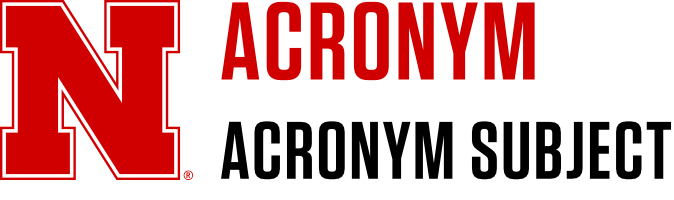
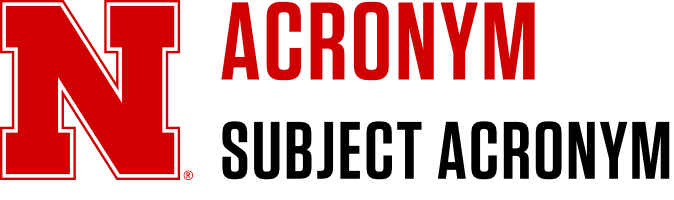
Subject Acronym change and normalizing Ns

Changed region(s): [[0.3116, 0.6, 0.997, 0.9]]

diff --git a/public/css/main.css b/public/css/main.css
@@ -1,1 +1,1 @@
-label>input{visibility:hidden;position:absolute}label img{padding:5px}label>input+img,label>input+img+img{cursor:pointer;box-shadow:0 0 8px #DDD}label>input:checked+img,label>input:checked+img+img{box-shadow:0 0 8px #1B9AE8}form legend{font-size:1.5em}textarea{resize:vertical}.page-title{margin-top:0}div.left,section.left{text-align:left}div.center,section.center{text-align:center}div.right,section.right{text-align:right}.approval-bug{text-align:center;background:#1b9ae8;border:1px solid #137cbd;border-radius:1em;padding:1em;color:#fefdfa;font-family:"Gotham SSm A","Gotham SSm B",Verdana,"Verdana Ref",Geneva,Tahoma,"Lucida Grande","Lucida Sans Unicode","Lucida Sans","DejaVu Sans","Bitstream Vera Sans","Liberation Sans",sans-serif;font-weight:400;font-style:normal}.approval-bug.approved{background:#00bc3c;border:1px solid #00892c}.approval-bug.denied{background:#ff5151;border:1px solid #d00000}.wdn_notice{margin-top:1em}.caps{text-transform:uppercase;color:inherit}.featured-icon{background-color:#00BD3C;height:144px;width:144px;border-radius:80px;float:none!important;margin:0 auto!important}.featured-icon.red{background-color:#D00000}.featured-icon.blue{background-color:#1B9AE8}svg.preview{border:2px dashed #DDD;max-width:100%;max-height:100%}.wdn-hero{position:relative;overflow:hidden;height:25.24em;height:42vh;background-color:#000;display:-webkit-flex;display:-ms-flexbox;display:flex;-webkit-align-items:center;-ms-flex-align:center;align-items:center}.wdn-hero video{width:100%}.wdn-hero-text{position:relative;bottom:auto;display:-webkit-flex;display:-ms-flexbox;display:flex;-webkit-flex-direction:column;-ms-flex-direction:column;flex-direction:column;width:100%;text-align:center}.wdn-hero-heading{z-index:1;margin:0;font-size:3.923rem;text-transform:uppercase;color:#fff}.wdn-hero-heading .hero-line{display:inline-block;line-height:1;border-top:1px solid rgba(255,255,255,.2);border-bottom:1px solid rgba(255,255,255,.2)}.is-video.wdn-hero .wdn-hero-video{position:absolute;top:0;left:0}.tooltip{background-color:#1B9AE8;border-radius:2em;height:1.5em;width:1.5em;padding:0 .2em;color:#fff;display:inline-block;text-align:center;font-size:.85em;line-height:1.6em;position:relative;font-size:.8125rem}.tooltip>div{position:absolute;display:none;background-color:#fff;color:#000;box-shadow:0 1px 4px rgba(0,0,0,.2);padding:.75em;bottom:160%;left:-91px;width:200px;text-align:left;z-index:250}.tooltip>div:before{background-color:#fff;content:"";display:block;width:15px;height:15px;position:absolute;bottom:-8px;left:50%;margin-left:-7px;transform:rotate(45deg);-ms-transform:rotate(45deg);-o-transform:rotate(45deg);-moz-transform:rotate(45deg);-webkit-transform:rotate(45deg);box-shadow:0 0 4px rgba(0,0,0,.25)}.tooltip>div:after{content:"";height:12px;width:40px;background-color:#fff;display:block;position:absolute;bottom:0;left:50%;margin-left:-24px}.tooltip.hang-right>div{left:-27px}.tooltip.hang-left>div{left:-157px}.tooltip.hang-right>div:before{left:34px;margin-left:-7px}.tooltip.hang-right>div:after{left:34px;margin-left:-24px}.tooltip.hang-left>div:before{left:166px;margin-left:-7px}.tooltip.hang-left>div:after{left:166px;margin-left:-24px}.tooltip ul li{margin-bottom:.75em}.tooltip span.heading{font-family:"Tungsten A","Tungsten B",HelveticaNeueCondensed,HelveticaNeue-Condensed,"Helvetica Neue Condensed",HelveticaNeueRomanCondensed,HelveticaNeue-Roman-Condensed,"Helvetica Neue Roman Condensed","Arial Narrow",HelveticaNeue,"Helvetica Neue",HelveticaNeueRoman,HelveticaNeue-Roman,"Helvetica Neue Roman",Helvetica,Tahoma,Geneva,Arial,sans-serif;font-size:1.777em}.tooltip:hover>div{display:block}.tooltip p{margin:0}.tooltip.italic *{font-style:italic}.toolbox,.visual-island{background:#f9f8f5;margin-bottom:1em;word-wrap:break-word;padding:0!important}.toolbox .details,.toolbox .tools,.visual-island .details,.visual-island .tools{padding:1em;border-left:1px solid #d5d5d2;border-right:1px solid #d5d5d2;border-bottom:1px solid #d5d5d2}.toolbox .details.top-border,.toolbox .tools.top-border,.visual-island .details.top-border,.visual-island .tools.top-border{border-top:1px solid #d5d5d2}.toolbox .vi-header,.toolbox h1,.toolbox h2,.toolbox h3,.toolbox h4,.toolbox h5,.toolbox h6,.visual-island .vi-header,.visual-island h1,.visual-island h2,.visual-island h3,.visual-island h4,.visual-island h5,.visual-island h6{display:block;font-size:.802em!important;margin:0;border-bottom:1px solid #474746;font-family:"Gotham SSm A","Gotham SSm B",Verdana,"Verdana Ref",Geneva,Tahoma,"Lucida Grande","Lucida Sans Unicode","Lucida Sans","DejaVu Sans","Bitstream Vera Sans","Liberation Sans",sans-serif;width:100%;background-color:#474746;padding:1em;text-transform:uppercase;color:#fff;font-weight:400;font-style:normal;text-align:center}.toolbox p,.visual-island p{padding:0 1em 1em 1em}.toolbox ul,.visual-island ul{padding:0;padding-left:1em;margin:0}.toolbox ul a,.visual-island ul a{border-bottom:none;font-family:"Gotham SSm A","Gotham SSm B",Verdana,"Verdana Ref",Geneva,Tahoma,"Lucida Grande","Lucida Sans Unicode","Lucida Sans","DejaVu Sans","Bitstream Vera Sans","Liberation Sans",sans-serif}@media (min-width:0px){.wdn-hero{height:5em;height:10vh;max-height:8em}}@media (min-height:480px) and (min-width:480px){.wdn-hero{height:15em;height:30vh;max-height:22em}}@media (min-height:718px) and (min-width:960px){.wdn-hero{height:25.24em;height:56vh;max-height:31.474em}}@media (min-height:895px) and (min-width:1044px){.wdn-hero{height:31.474em;height:75vh;max-height:33.645em}}@media (min-width:480px){.wdn-hero-heading{font-size:4.1538rem}}@media (min-width:768px){.wdn-hero-heading{font-size:5.61rem}}@media (min-width:1044px){.wdn-hero-heading{font-size:5.997rem}}
+label>input{visibility:hidden;position:absolute}label img{padding:5px}label>input+img,label>input+img+img{cursor:pointer;box-shadow:0 0 8px #DDD}label>input:checked+img,label>input:checked+img+img{box-shadow:0 0 8px #1B9AE8}form legend{font-size:1.5em}textarea{resize:vertical}.page-title{margin-top:0}div.left,section.left{text-align:left}div.center,section.center{text-align:center}div.right,section.right{text-align:right}img.height-36{max-height:108px}img.height-38{max-height:114px}img.height-40{max-height:120px}.approval-bug{text-align:center;background:#1b9ae8;border:1px solid #137cbd;border-radius:1em;padding:1em;color:#fefdfa;font-family:"Gotham SSm A","Gotham SSm B",Verdana,"Verdana Ref",Geneva,Tahoma,"Lucida Grande","Lucida Sans Unicode","Lucida Sans","DejaVu Sans","Bitstream Vera Sans","Liberation Sans",sans-serif;font-weight:400;font-style:normal}.approval-bug.approved{background:#00bc3c;border:1px solid #00892c}.approval-bug.denied{background:#ff5151;border:1px solid #d00000}.wdn_notice{margin-top:1em}.caps{text-transform:uppercase;color:inherit}.featured-icon{background-color:#00BD3C;height:144px;width:144px;border-radius:80px;float:none!important;margin:0 auto!important}.featured-icon.red{background-color:#D00000}.featured-icon.blue{background-color:#1B9AE8}svg.preview{border:2px dashed #DDD;max-width:100%;max-height:100%}.wdn-hero{position:relative;overflow:hidden;height:25.24em;height:42vh;background-color:#000;display:-webkit-flex;display:-ms-flexbox;display:flex;-webkit-align-items:center;-ms-flex-align:center;align-items:center}.wdn-hero video{width:100%}.wdn-hero-text{position:relative;bottom:auto;display:-webkit-flex;display:-ms-flexbox;display:flex;-webkit-flex-direction:column;-ms-flex-direction:column;flex-direction:column;width:100%;text-align:center}.wdn-hero-heading{z-index:1;margin:0;font-size:3.923rem;text-transform:uppercase;color:#fff}.wdn-hero-heading .hero-line{display:inline-block;line-height:1;border-top:1px solid rgba(255,255,255,.2);border-bottom:1px solid rgba(255,255,255,.2)}.is-video.wdn-hero .wdn-hero-video{position:absolute;top:0;left:0}.tooltip{background-color:#1B9AE8;border-radius:2em;height:1.5em;width:1.5em;padding:0 .2em;color:#fff;display:inline-block;text-align:center;font-size:.85em;line-height:1.6em;position:relative;font-size:.8125rem}.tooltip>div{position:absolute;display:none;background-color:#fff;color:#000;box-shadow:0 1px 4px rgba(0,0,0,.2);padding:.75em;bottom:160%;left:-91px;width:200px;text-align:left;z-index:250}.tooltip>div:before{background-color:#fff;content:"";display:block;width:15px;height:15px;position:absolute;bottom:-8px;left:50%;margin-left:-7px;transform:rotate(45deg);-ms-transform:rotate(45deg);-o-transform:rotate(45deg);-moz-transform:rotate(45deg);-webkit-transform:rotate(45deg);box-shadow:0 0 4px rgba(0,0,0,.25)}.tooltip>div:after{content:"";height:12px;width:40px;background-color:#fff;display:block;position:absolute;bottom:0;left:50%;margin-left:-24px}.tooltip.hang-right>div{left:-27px}.tooltip.hang-left>div{left:-157px}.tooltip.hang-right>div:before{left:34px;margin-left:-7px}.tooltip.hang-right>div:after{left:34px;margin-left:-24px}.tooltip.hang-left>div:before{left:166px;margin-left:-7px}.tooltip.hang-left>div:after{left:166px;margin-left:-24px}.tooltip ul li{margin-bottom:.75em}.tooltip span.heading{font-family:"Tungsten A","Tungsten B",HelveticaNeueCondensed,HelveticaNeue-Condensed,"Helvetica Neue Condensed",HelveticaNeueRomanCondensed,HelveticaNeue-Roman-Condensed,"Helvetica Neue Roman Condensed","Arial Narrow",HelveticaNeue,"Helvetica Neue",HelveticaNeueRoman,HelveticaNeue-Roman,"Helvetica Neue Roman",Helvetica,Tahoma,Geneva,Arial,sans-serif;font-size:1.777em}.tooltip:hover>div{display:block}.tooltip p{margin:0}.tooltip.italic *{font-style:italic}.toolbox,.visual-island{background:#f9f8f5;margin-bottom:1em;word-wrap:break-word;padding:0!important}.toolbox .details,.toolbox .tools,.visual-island .details,.visual-island .tools{padding:1em;border-left:1px solid #d5d5d2;border-right:1px solid #d5d5d2;border-bottom:1px solid #d5d5d2}.toolbox .details.top-border,.toolbox .tools.top-border,.visual-island .details.top-border,.visual-island .tools.top-border{border-top:1px solid #d5d5d2}.toolbox .vi-header,.toolbox h1,.toolbox h2,.toolbox h3,.toolbox h4,.toolbox h5,.toolbox h6,.visual-island .vi-header,.visual-island h1,.visual-island h2,.visual-island h3,.visual-island h4,.visual-island h5,.visual-island h6{display:block;font-size:.802em!important;margin:0;border-bottom:1px solid #474746;font-family:"Gotham SSm A","Gotham SSm B",Verdana,"Verdana Ref",Geneva,Tahoma,"Lucida Grande","Lucida Sans Unicode","Lucida Sans","DejaVu Sans","Bitstream Vera Sans","Liberation Sans",sans-serif;width:100%;background-color:#474746;padding:1em;text-transform:uppercase;color:#fff;font-weight:400;font-style:normal;text-align:center}.toolbox p,.visual-island p{padding:0 1em 1em 1em}.toolbox ul,.visual-island ul{padding:0;padding-left:1em;margin:0}.toolbox ul a,.visual-island ul a{border-bottom:none;font-family:"Gotham SSm A","Gotham SSm B",Verdana,"Verdana Ref",Geneva,Tahoma,"Lucida Grande","Lucida Sans Unicode","Lucida Sans","DejaVu Sans","Bitstream Vera Sans","Liberation Sans",sans-serif}@media (min-width:0px){.wdn-hero{height:5em;height:10vh;max-height:8em}}@media (min-height:480px) and (min-width:480px){.wdn-hero{height:15em;height:30vh;max-height:22em}}@media (min-height:718px) and (min-width:960px){.wdn-hero{height:25.24em;height:56vh;max-height:31.474em}}@media (min-height:895px) and (min-width:1044px){.wdn-hero{height:31.474em;height:75vh;max-height:33.645em}}@media (min-width:480px){.wdn-hero-heading{font-size:4.1538rem}}@media (min-width:768px){.wdn-hero-heading{font-size:5.61rem}}@media (min-width:1044px){.wdn-hero-heading{font-size:5.997rem}}

diff --git a/less/main.less b/less/main.less
@@ -43,6 +43,18 @@ div.right, section.right {
 	text-align: right;
 }
 
+img.height-36 {
+	max-height: 108px;
+}
+
+img.height-38 {
+	max-height: 114px;
+}
+
+img.height-40 {
+	max-height: 120px;
+}
+
 .approval-bug {
 	text-align: center;
 	background: @light-triad;

diff --git a/src/Views/new_lockup.php b/src/Views/new_lockup.php
@@ -19,11 +19,11 @@
                     <input type="radio" id="show-vert" name="show"><label for="show-vert">Show Vertical</label>
                 </div>
                 <br>
-                <div class="bp2-wdn-grid-set-halves wdn-center">
+                <div class="bp2-wdn-grid-set-halves">
                     <div class="wdn-col">
                         <label>
                             <input type="radio" name="type" value="org_only" id="type-org-only" checked="checked">
-                            <img class="horiz" src="/images/org_only_example.png">
+                            <img class="horiz height-36" src="/images/org_only_example.png">
                             <img class="vert" style="display: none;" src="/images/org_only_vert_example.png">
                         </label><br>
                         <label for="type-org-only">
@@ -33,7 +33,7 @@
                     <div class="wdn-col">
                         <label>
                             <input type="radio" name="type" value="org_two_line" id="type-org-two-line">
-                            <img class="horiz" src="/images/org_two_line_example.png">
+                            <img class="horiz height-36" src="/images/org_two_line_example.png">
                             <img class="vert" style="display: none;" src="/images/org_two_line_vert_example.png">
                         </label><br>
                         <label for="type-org-two-line">
@@ -41,11 +41,11 @@
                         </label><br><br>
                     </div>
                 </div>
-                <div class="bp2-wdn-grid-set-halves wdn-center">
+                <div class="bp2-wdn-grid-set-halves">
                     <div class="wdn-col">
                         <label>
                             <input type="radio" name="type" value="org_subject" id="type-org-subject">
-                            <img class="horiz" src="/images/org_subject_example.png">
+                            <img class="horiz height-38" src="/images/org_subject_example.png">
                             <img class="vert" style="display: none;" src="/images/org_subject_vert_example.png">
                         </label><br>
                         <label for="type-org-subject">
@@ -55,7 +55,7 @@
                     <div class="wdn-col">
                         <label>
                             <input type="radio" name="type" value="org_subject_1_2" id="type-org-subject-1-2">
-                            <img class="horiz" src="/images/org_subject_1-2_example.png">
+                            <img class="horiz height-38" src="/images/org_subject_1-2_example.png">
                             <img class="vert" style="display: none;" src="/images/org_subject_1-2_vert_example.png">
                         </label><br>
                         <label for="type-org-subject-1-2">
@@ -63,11 +63,11 @@
                         </label><br><br>
                     </div>
                 </div>
-                <div class="bp2-wdn-grid-set-halves wdn-center">
+                <div class="bp2-wdn-grid-set-halves">
                     <div class="wdn-col">
                         <label>
                             <input type="radio" name="type" value="org_subject_2_1" id="type-org-subject-2-1">
-                            <img class="horiz" src="/images/org_subject_2-1_example.png">
+                            <img class="horiz height-38" src="/images/org_subject_2-1_example.png">
                             <img class="vert" style="display: none;" src="/images/org_subject_2-1_vert_example.png">
                         </label><br>
                         <label for="type-org-subject-2-1">
@@ -77,7 +77,7 @@
                     <div class="wdn-col">
                         <label>
                             <input type="radio" name="type" value="org_subject_2_2" id="type-org-subject-2-2">
-                            <img class="horiz" src="/images/org_subject_2-2_example.png">
+                            <img class="horiz height-38" src="/images/org_subject_2-2_example.png">
                             <img class="vert" style="display: none;" src="/images/org_subject_2-2_vert_example.png">
                         </label><br>
                         <label for="type-org-subject-2-2">
@@ -85,11 +85,11 @@
                         </label><br><br>
                     </div>
                 </div>
-                <div class="bp2-wdn-grid-set-halves wdn-center">
+                <div class="bp2-wdn-grid-set-halves">
                     <div class="wdn-col">
                         <label>
                             <input type="radio" name="type" value="acronym" id="type-acronym">
-                            <img class="horiz" src="/images/acronym_example.png">
+                            <img class="horiz height-36" src="/images/acronym_example.png">
                             <img class="vert" style="display: none;" src="/images/acronym_vert_example.png">
                         </label><br>
                         <label for="type-acronym">
@@ -99,7 +99,7 @@
                     <div class="wdn-col">
                         <label>
                             <input type="radio" name="type" value="acronym_subject" id="type-acronym-subject">
-                            <img class="horiz" src="/images/acronym_subject_example.png">
+                            <img class="horiz height-40" src="/images/acronym_subject_example.png">
                             <img class="vert" style="display: none;" src="/images/acronym_subject_vert_example.png">
                         </label><br>
                         <label for="type-acronym-subject">
@@ -107,11 +107,11 @@
                         </label><br><br>
                     </div>
                 </div>
-                <div class="bp2-wdn-grid-set-halves wdn-center">
+                <div class="bp2-wdn-grid-set-halves">
                     <div class="wdn-col">
                         <label>
                             <input type="radio" name="type" value="extension" id="type-extension">
-                            <img class="horiz" src="/images/extension_example.png">
+                            <img class="horiz height-38" src="/images/extension_example.png">
                             <img class="vert" style="display: none;" src="/images/extension_vert_example.png">
                         </label><br>
                         <label for="type-extension">
@@ -172,7 +172,7 @@
                     <br>
                 </div>
                 <div id="acronym-subject-field" style="display: none;">
-                    <label for="acronym-subject">Acronym Subject</label>
+                    <label for="acronym-subject">Subject Acronym</label>
                     <div class="tooltip wdn-icon-info italic hang-right">
                         <div>
                             15 characters max
